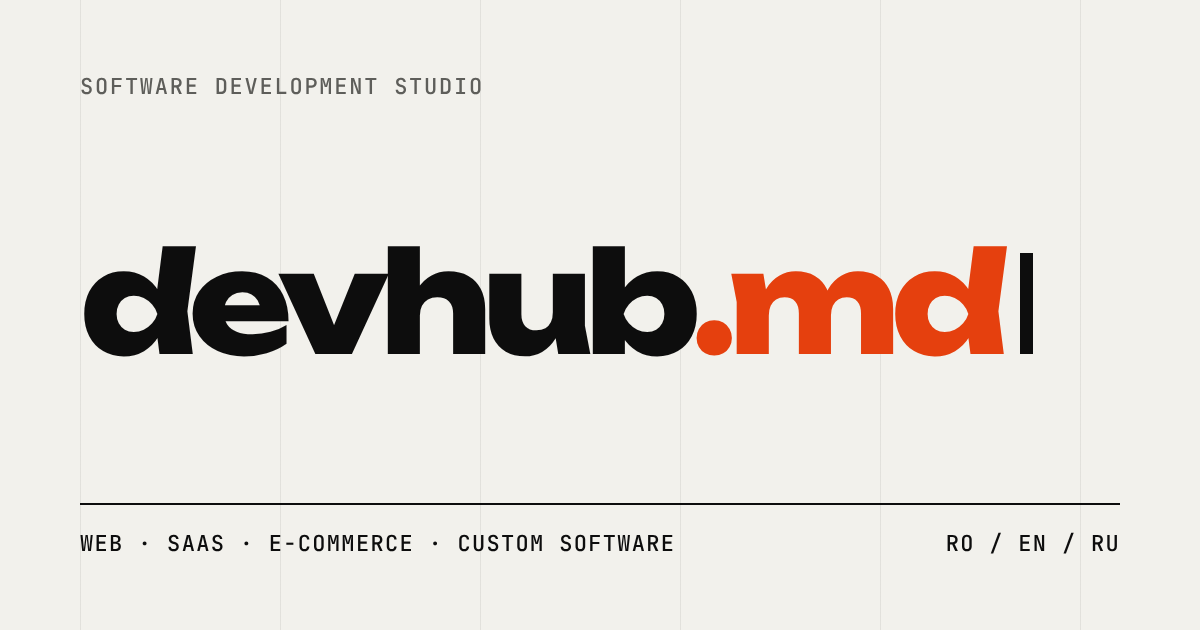
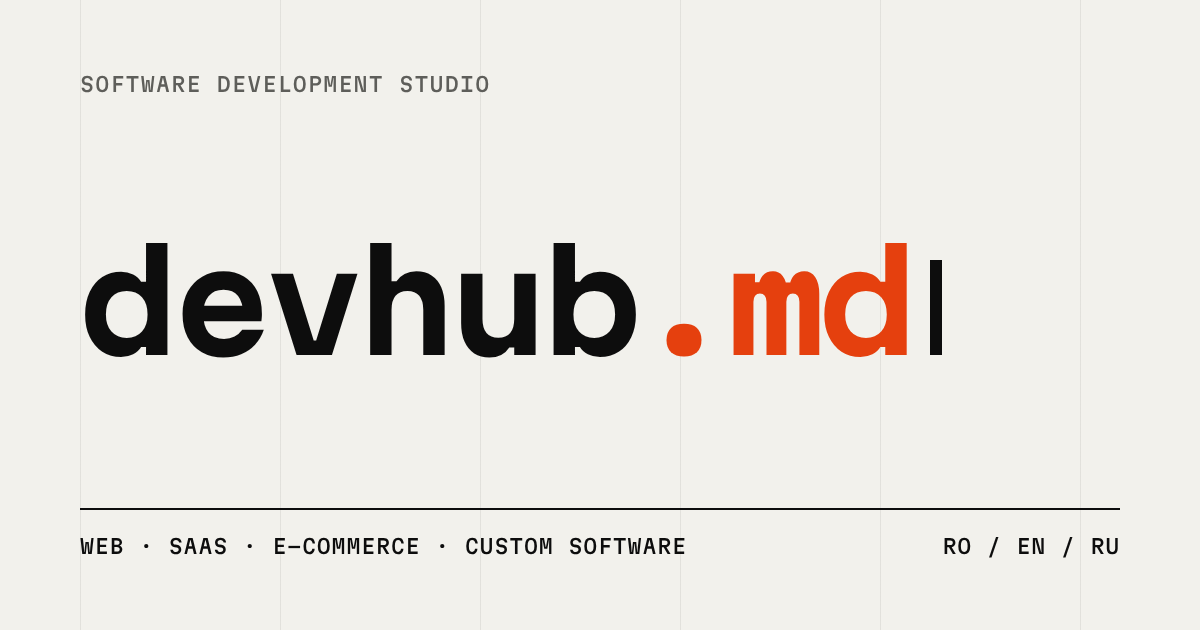
Switch display font to Martian Mono

diff --git a/assets/css/main.css b/assets/css/main.css
@@ -7,9 +7,9 @@
   --grid: rgba(13, 13, 13, 0.06);
   --accent: #e5400e;
 
-  --font-display: 'Unbounded Variable', 'Arial Black', sans-serif;
+  --font-display: 'Martian Mono Variable', ui-monospace, monospace;
   --font-body: 'Manrope Variable', system-ui, sans-serif;
-  --font-mono: 'JetBrains Mono Variable', ui-monospace, monospace;
+  --font-mono: var(--font-display);
 
   --gutter: clamp(20px, 4vw, 56px);
   --header-h: 64px;
@@ -75,9 +75,9 @@ a {
 
 .label {
   font-family: var(--font-mono);
-  font-size: 12px;
+  font-size: 11px;
   font-weight: 500;
-  letter-spacing: 0.08em;
+  letter-spacing: 0.06em;
   text-transform: uppercase;
 }
 
@@ -124,9 +124,9 @@ a {
 
 .header__logo {
   font-family: var(--font-display);
-  font-size: 19px;
+  font-size: 17px;
   font-weight: 700;
-  letter-spacing: -0.03em;
+  letter-spacing: -0.04em;
 }
 
 .header__nav {
@@ -191,10 +191,11 @@ a {
 
 .hero__title {
   font-family: var(--font-display);
-  font-weight: 800;
-  font-size: clamp(44px, 12.4vw, 232px);
-  line-height: 0.86;
-  letter-spacing: -0.06em;
+  font-weight: 700;
+  font-stretch: 112.5%;
+  font-size: clamp(36px, 13.2vw, 250px);
+  line-height: 0.9;
+  letter-spacing: -0.05em;
 }
 
 .hero__word {
@@ -286,7 +287,7 @@ a {
 
 .section__title {
   font-family: var(--font-display);
-  font-size: clamp(36px, 6vw, 88px);
+  font-size: clamp(30px, 5vw, 76px);
   font-weight: 700;
   line-height: 1;
   letter-spacing: -0.05em;
@@ -313,9 +314,9 @@ a {
 
 .row__title {
   font-family: var(--font-display);
-  font-size: clamp(22px, 2.8vw, 40px);
+  font-size: clamp(19px, 2.3vw, 34px);
   font-weight: 500;
-  line-height: 1.1;
+  line-height: 1.15;
   letter-spacing: -0.04em;
 }
 
@@ -364,15 +365,15 @@ a {
   font-size: clamp(56px, 7vw, 104px);
   font-weight: 800;
   line-height: 1;
-  letter-spacing: -0.06em;
+  letter-spacing: -0.05em;
   color: #cfccc2;
 }
 
 .step__title {
   font-family: var(--font-display);
-  font-size: 20px;
+  font-size: 17px;
   font-weight: 600;
-  letter-spacing: -0.03em;
+  letter-spacing: -0.02em;
 }
 
 .step__text {
@@ -441,12 +442,12 @@ a {
 }
 
 .contact__title {
-  max-width: 14ch;
+  max-width: 16ch;
   font-family: var(--font-display);
-  font-size: clamp(40px, 8vw, 128px);
+  font-size: clamp(32px, 6.6vw, 108px);
   font-weight: 700;
   line-height: 0.95;
-  letter-spacing: -0.06em;
+  letter-spacing: -0.05em;
 }
 
 .contact__text {

diff --git a/assets/css/fonts.css b/assets/css/fonts.css
@@ -1,3 +1,2 @@
-@import '@fontsource-variable/unbounded/wght.css';
+@import '@fontsource-variable/martian-mono/standard.css';
 @import '@fontsource-variable/manrope/wght.css';
-@import '@fontsource-variable/jetbrains-mono/wght.css';
